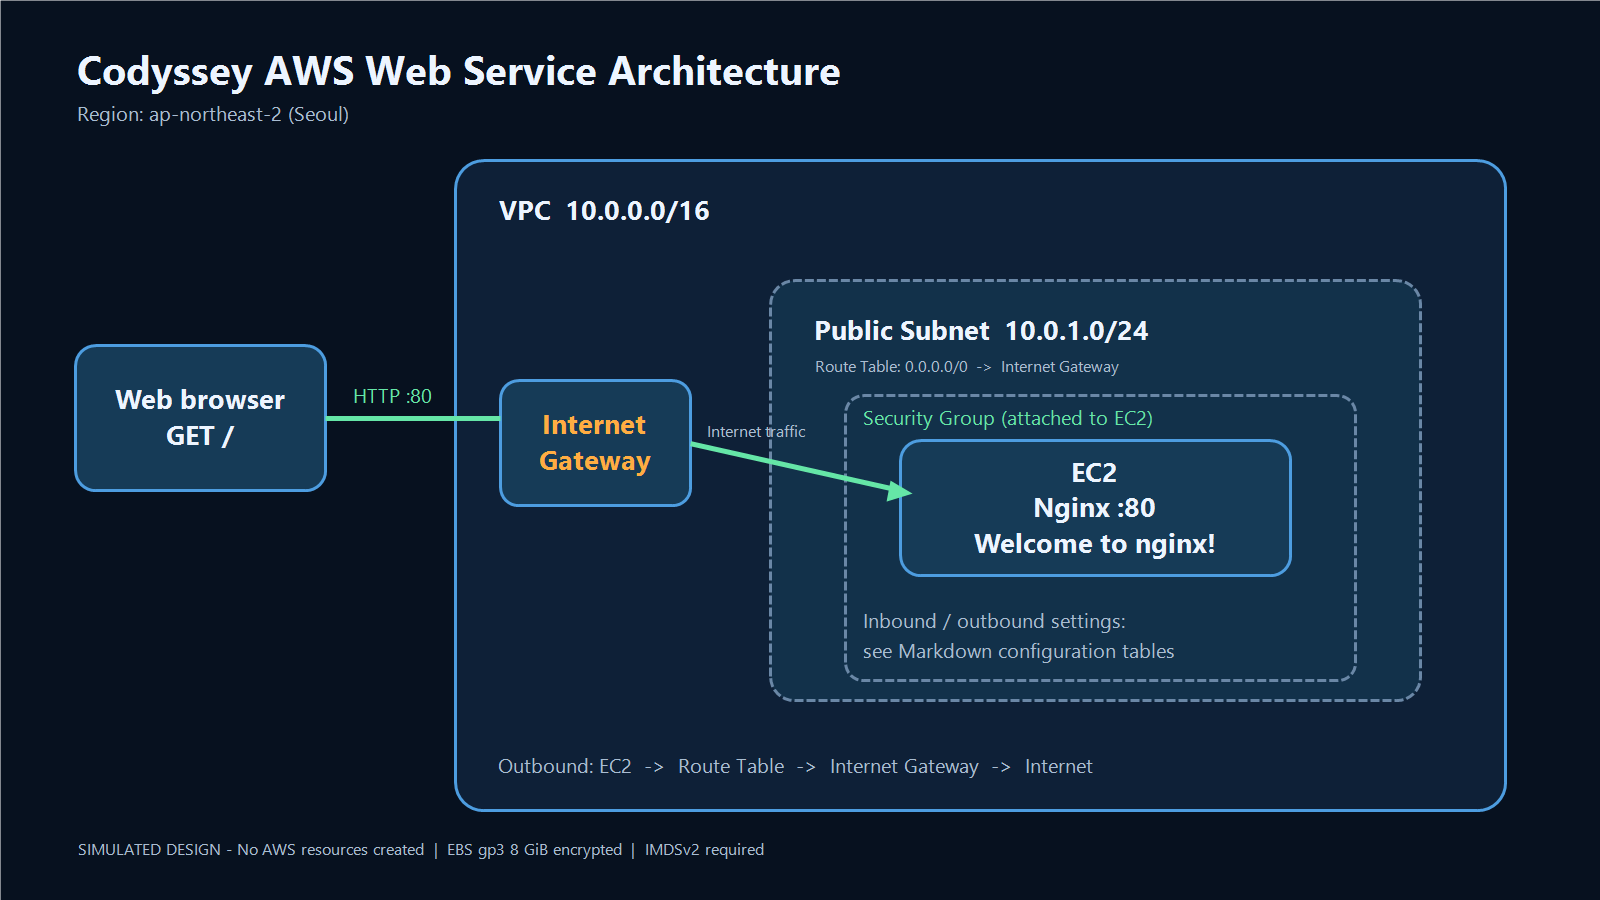
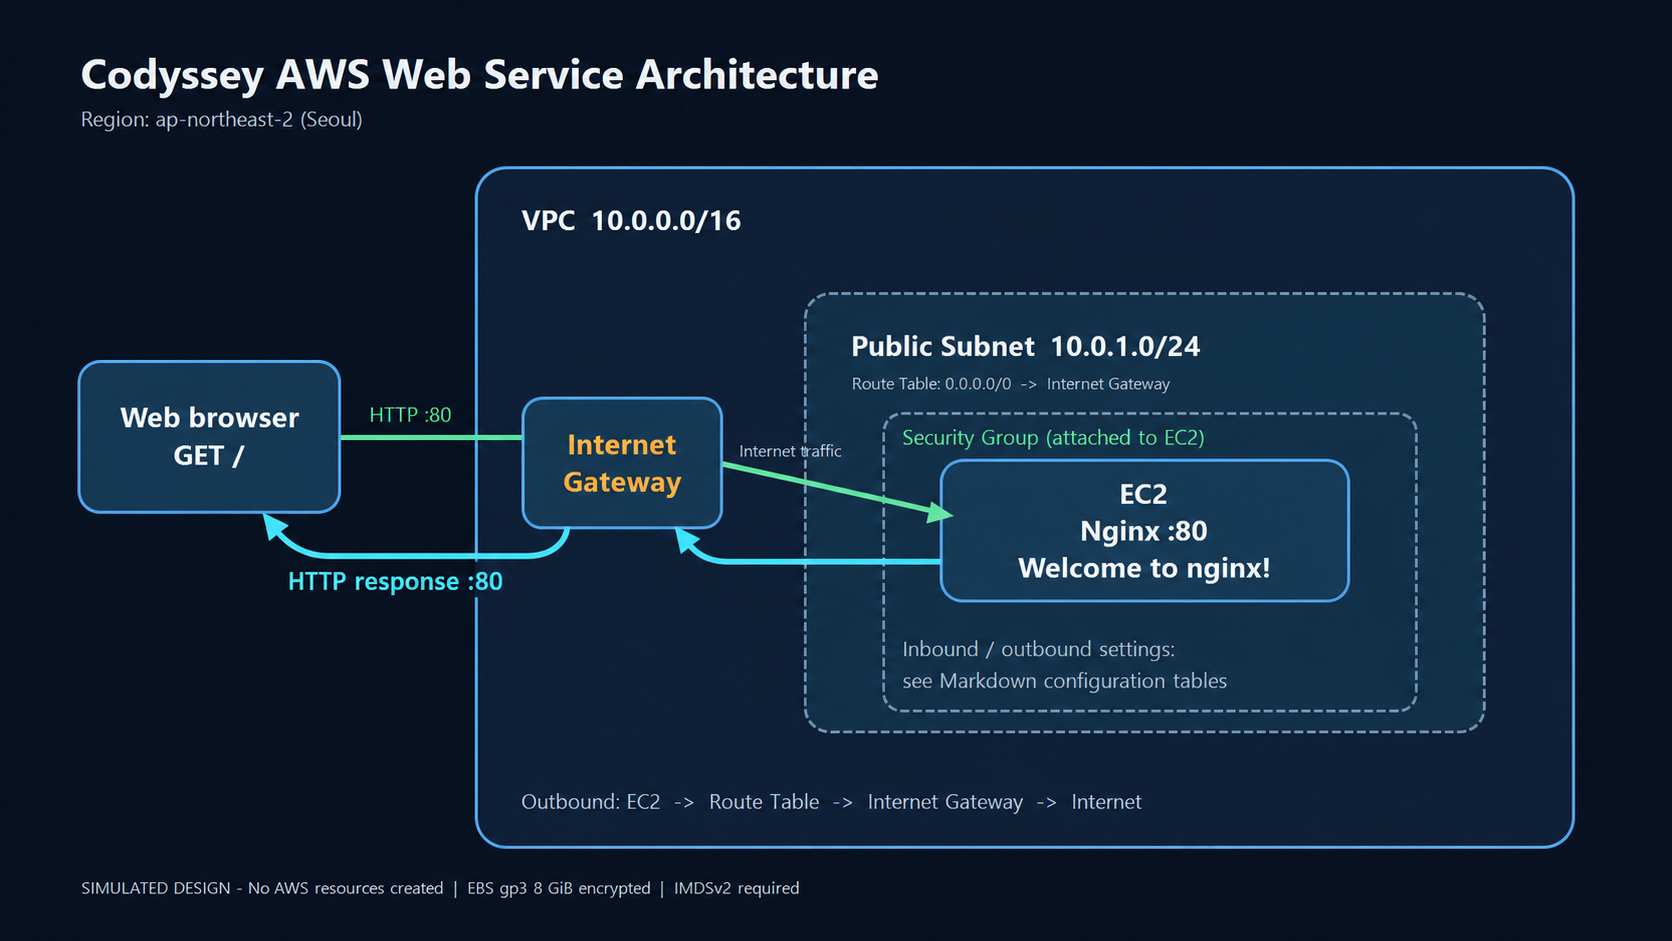
.

diff --git a/docs/troubleshooting.md b/docs/troubleshooting.md
@@ -43,48 +43,6 @@ EC2에 연결된 `codyssey-web-sg`의 인바운드에 **HTTP / TCP / 80 / `0.0.0
 - HTTP 80 공개와 SSH `/32` 제한을 규칙 표로 검토한다.
 - SG 변경 후에는 서비스 응답뿐 아니라 관리 포트 공개 범위도 다시 점검한다.
 
-## 사례 2. Nginx 설정 오류로 시작 실패
-
-### 증상
-
-EC2·네트워크 설정은 정상으로 가정하지만 Nginx 시작이 실패하고, 내부 `curl localhost/health`도 연결되지 않는다.
-
-### 가설
-
-Nginx 설정 파일의 문법 오류, 80번 포트 충돌, 서비스 중지 가능성을 비교한다.
-
-### 검증
-
-```bash
-sudo nginx -t
-sudo systemctl status nginx --no-pager
-sudo journalctl -u nginx -n 30 --no-pager
-sudo ss -lntp | grep ':80'
-sudo tail -n 30 /var/log/nginx/error.log
-```
-
-가상 재현 조건은 `return 200 "OK\n";`에서 끝의 세미콜론을 누락한 것이다. 다음은 이를 설명하기 위한 축약 로그이다.
-
-```text
-nginx: [emerg] unexpected "}" in /etc/nginx/nginx.conf:LINE
-nginx: configuration file /etc/nginx/nginx.conf test failed
-nginx.service: Failed with result 'exit-code'.
-```
-
-80번 포트에 다른 프로세스가 없고 `nginx -t`가 실패한다는 조건에서 설정 문법 오류로 원인을 좁힌다.
-
-### 조치
-
-`return 200 "OK\n";`로 문법을 수정하고 `sudo nginx -t`가 성공한 뒤 `sudo systemctl restart nginx`를 실행하는 절차를 제안한다. `sudo systemctl enable nginx`로 부팅 시 시작하도록 구성한다.
-
-### 결과
-
-기대 결과는 `active`, 80번 포트 LISTEN, 내부·외부 `/health` 모두 200 및 `OK`이다.
-
-### 재발 방지
-
-설정 변경마다 `nginx -t`를 선행하고 성공한 경우에만 reload/restart한다. 프로세스 상태와 응답 본문을 함께 확인한다.
-
 ## 증상 해석의 한계
 
 | 증상 | 우선 확인 | 주의점 |
